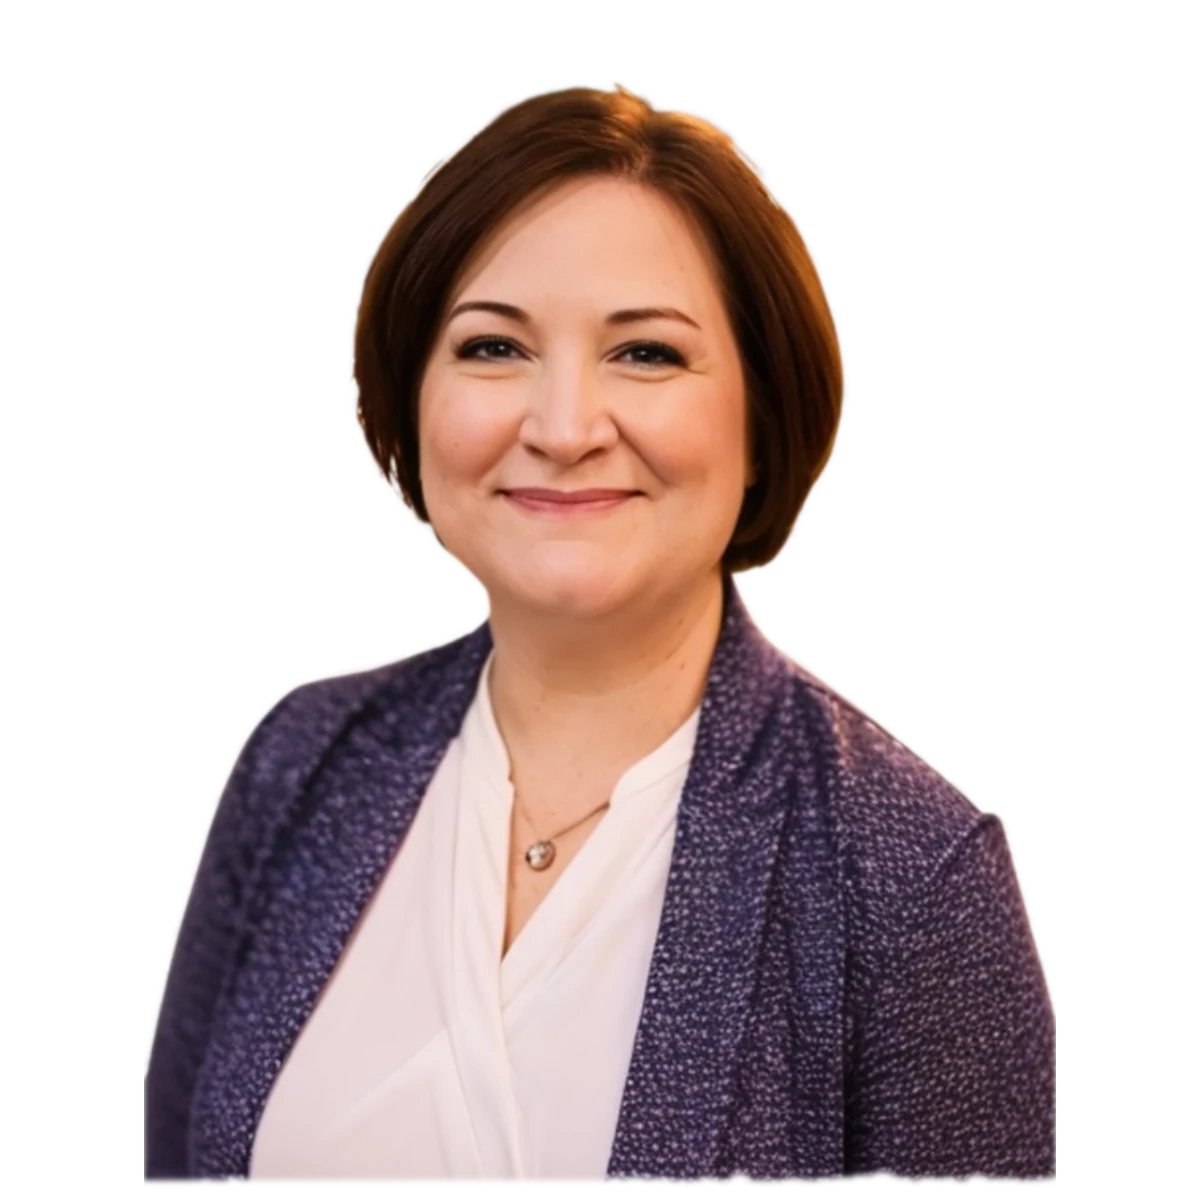
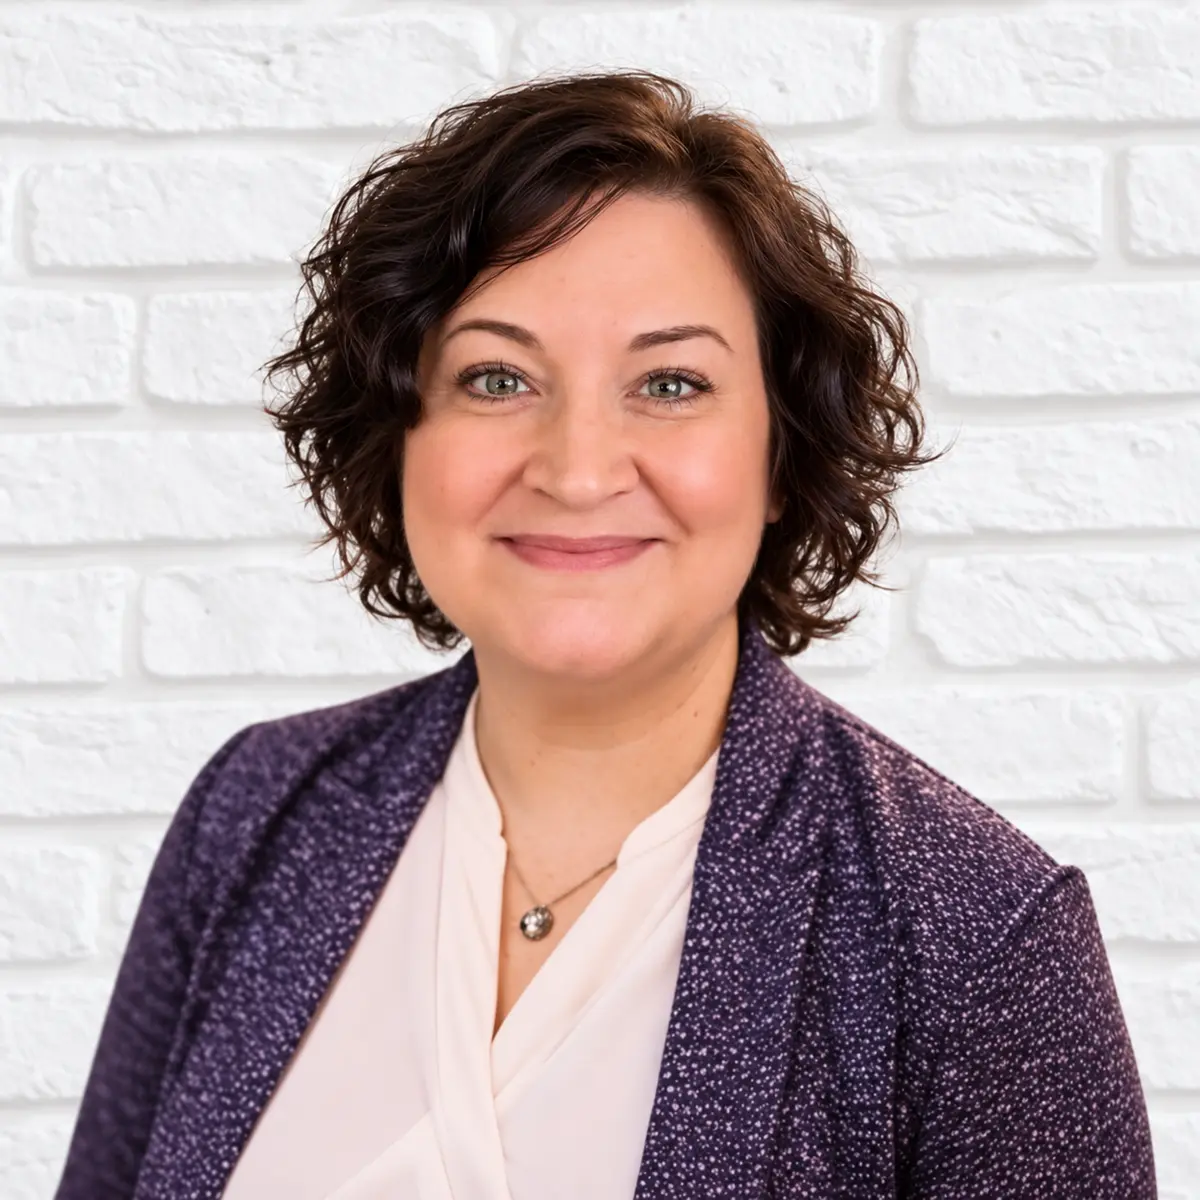
Update Caitlin's ceremony portrait with curly hair

diff --git a/weddings/officiant/index.html b/weddings/officiant/index.html
@@ -37,7 +37,7 @@
   <main id="main">
     <section class="hero shell" aria-labelledby="hero-title">
       <div class="hero-copy"><p class="eyebrow">Ceremonies by Caitlin · Houston, Texas</p><h1 id="hero-title">Your love story,<br><em>told beautifully.</em></h1><p class="lead">A wedding ceremony that sounds like the two people actually getting married.</p><p>Warm, personal, inclusive. A little laughter, a few happy tears, and words that feel like you.</p><div class="actions"><a class="button" href="#vibe">Find your ceremony vibe <span aria-hidden="true">↓</span></a><a class="text-link" href="#packages">Explore options &amp; pricing →</a></div><p class="hero-note">Wedding officiant + ceremony writer by Tiny Site Weddings</p></div>
-      <div class="portrait"><div class="portrait-arch"><img src="caitlin.webp" alt="Caitlin Cloyd, your wedding officiant and ceremony writer" width="1200" height="1200" fetchpriority="high"></div><div class="portrait-signature">Hi, I’m Caitlin. <span aria-hidden="true">♡</span></div></div>
+      <div class="portrait"><div class="portrait-arch"><img src="caitlin.webp?v=20261006 alt="Caitlin Cloyd, your wedding officiant and ceremony writer" width="1200" height="1200" fetchpriority="high"></div><div class="portrait-signature">Hi, I’m Caitlin. <span aria-hidden="true">♡</span></div></div>
     </section>
     <div class="welcome-strip"><p>Come as you are. <em>Marry who you love.</em></p><span>LGBTQ+ inclusive · Religious, spiritual &amp; secular · Traditional &amp; unconventional</span></div>
 

diff --git a/weddings/index.html b/weddings/index.html
@@ -78,7 +78,7 @@ height="0" width="0" style="display:none;visibility:hidden"></iframe></noscript>
     </section>
 
     <section class="ceremony-spotlight" aria-labelledby="ceremony-spotlight-title">
-      <div class="ceremony-spotlight-photo"><img src="/weddings/officiant/caitlin.webp" alt="Caitlin, your wedding officiant and ceremony writer" width="1200" height="1200" loading="lazy"></div>
+      <div class="ceremony-spotlight-photo"><img src="/weddings/officiant/caitlin.webp?v=20261006 alt="Caitlin, your wedding officiant and ceremony writer" width="1200" height="1200" loading="lazy"></div>
       <div class="ceremony-spotlight-copy"><p class="eyebrow">New · Ceremonies by Caitlin</p><h2 id="ceremony-spotlight-title">Your love story,<br><em>told beautifully.</em></h2><p>Personal, inclusive wedding ceremonies in the Houston area. You tell me your story. I’ll help you find the words.</p><p class="ceremony-spotlight-rate">Founding Couple rates from $125 · First 5 ceremony bookings</p><a class="pill pill-dark" href="/weddings/officiant/">Meet Caitlin &amp; build your ceremony vibe →</a><p class="ceremony-spotlight-note">Religious, spiritual, secular, traditional, unconventional. Every kind of love belongs here.</p></div>
     </section>
 
